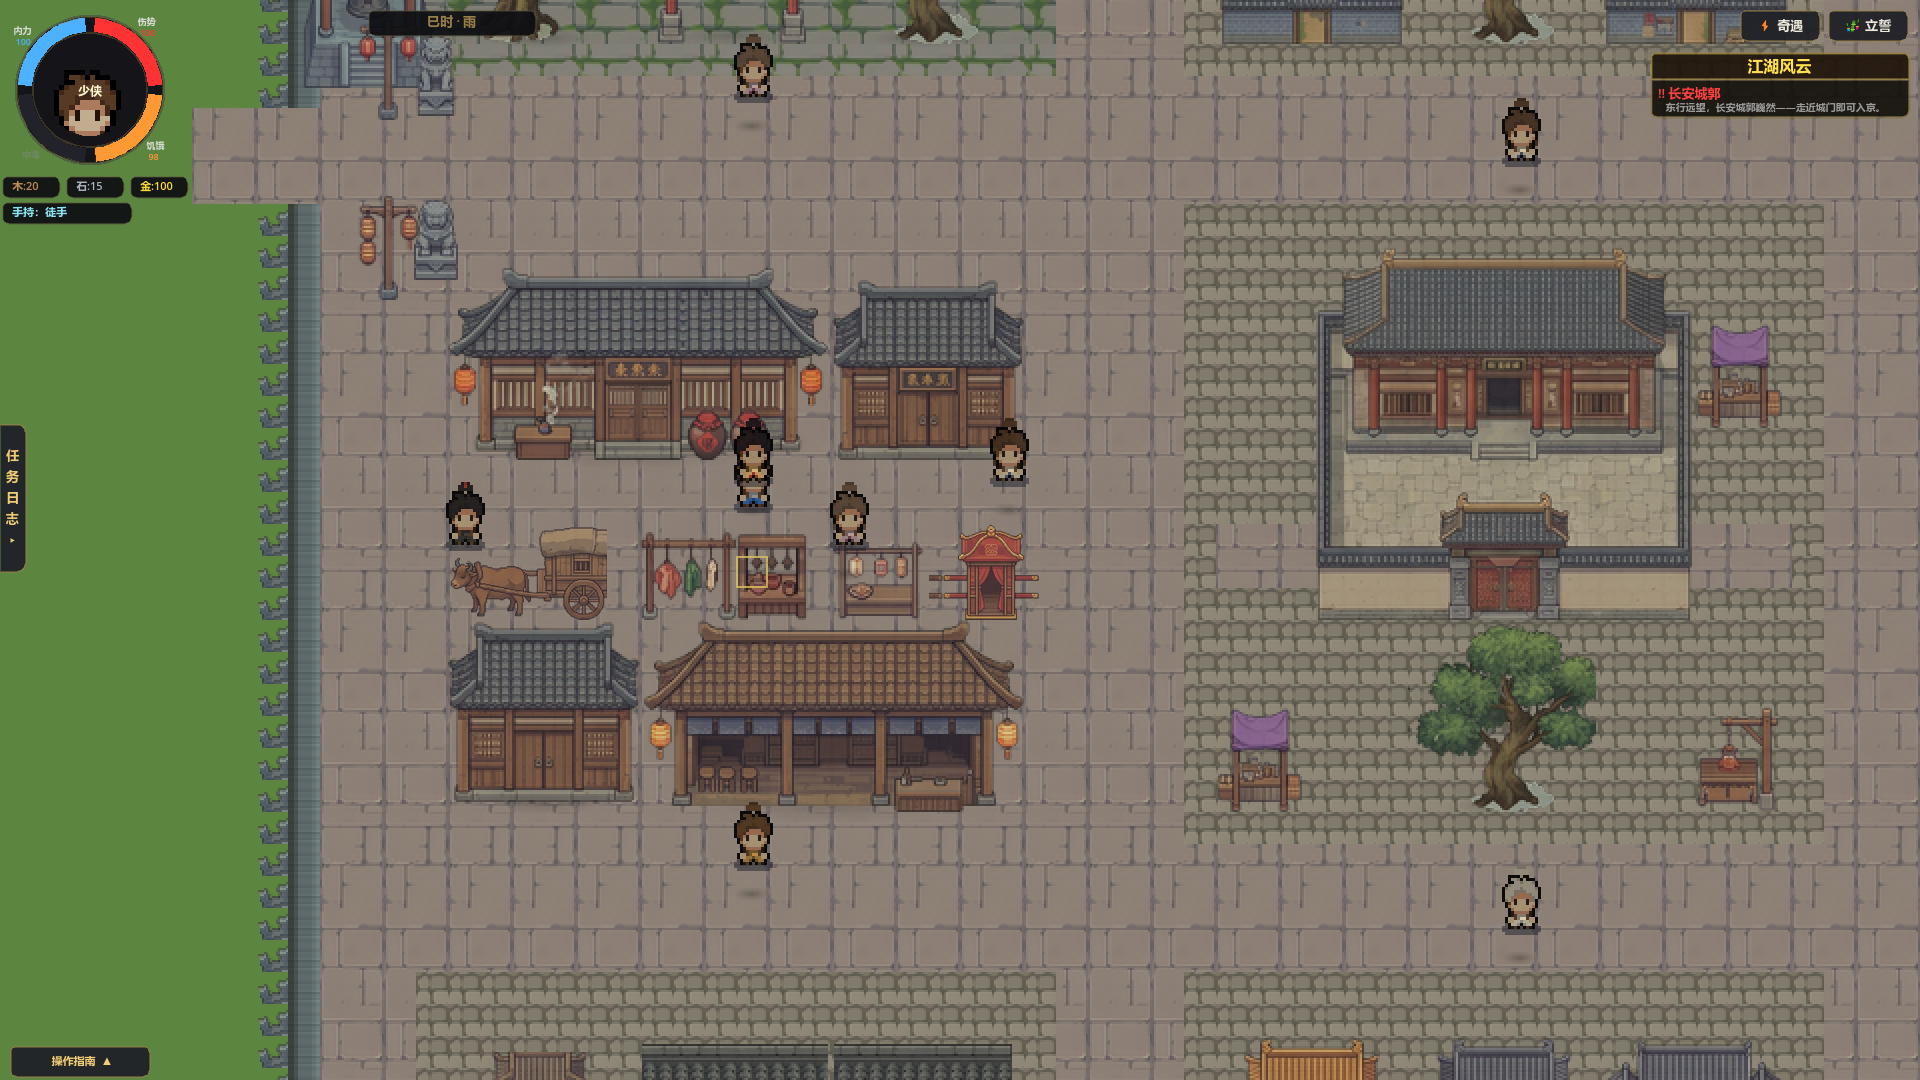
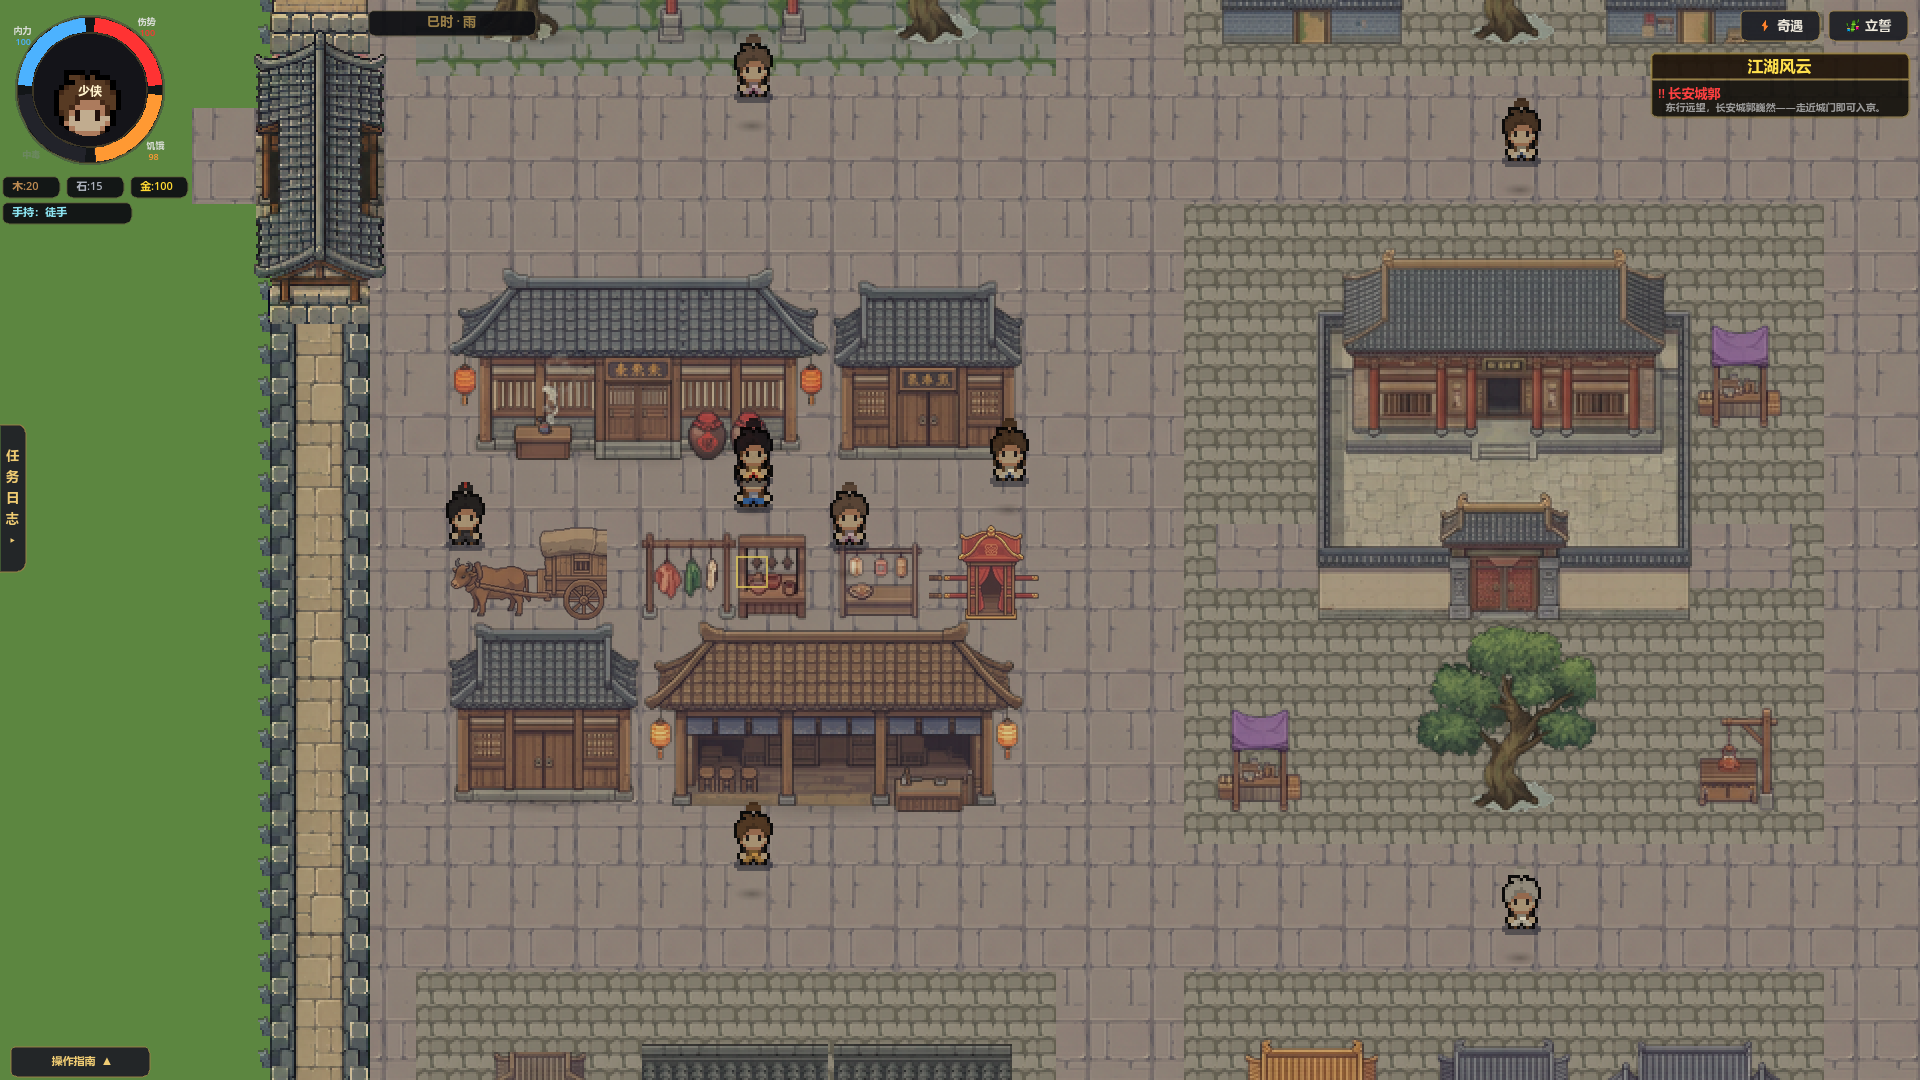
feat: 用 Image 2.0 补齐长安东西门墙
生成并接入原生纵向门桥与两款竖向外郭墙，保留可重建源图、manifest 与运行时探针。

Changed region(s): [[0.125, 0.0, 0.25, 1.0]]

diff --git a/tools/import_sckr_changan.py b/tools/import_sckr_changan.py
@@ -19,6 +19,8 @@ ROOT = os.path.dirname(os.path.dirname(os.path.abspath(__file__)))
 SRC = os.path.join(ROOT, "downloaded_assets", "comshadow_bundle")
 OUT_PROPS = os.path.join(ROOT, "sprites", "changan_props_sckr")
 OUT_TILES = os.path.join(ROOT, "sprites", "tiles_changan_sckr")
+AI_SRC = os.path.join(ROOT, "art_sources", "imagegen", "changan_v2")
+OUT_AI = os.path.join(ROOT, "sprites", "changan_ai")
 CONTACT = os.path.join(ROOT, "docs", "shots", "pack_jingcheng", "slice_contact.png")
 
 JC = "jingcheng/tile-B-01.png"
@@ -257,6 +259,14 @@ PROPS = [
     ("mat_cushion",      WX3, (384, 576, 480, 672)),   # 蒲团垫
 ]
 
+# Image 2.0 生成补件：源图永久保留，导入时统一抠真 Alpha，并以整数比缩为 16px 模数。
+# 字段：(语义名, 源图, 固定源窗, 透明画布尺寸, 输出尺寸)。运行时只引用语义名，不临时裁窗。
+AI_PROPS = [
+    ("side_gate_bridge_ai", "side_gate_bridge_magenta.png", (411, 340, 843, 844), (432, 504), (144, 168)),
+    ("side_wall_run_ai_a", "side_wall_run_magenta.png", (384, 480, 640, 736), (256, 256), (64, 64)),
+    ("side_wall_run_ai_b", "side_wall_run_magenta.png", (384, 736, 640, 992), (256, 256), (64, 64)),
+]
+
 # ---- tile 清单：16×16 整窗（TileMap 图集源，不修边）----
 TILES = [
     # 街巷铺装（终案：街=夯土暖色、御道/宫市=石板、青灰砖=墙——三级语义清晰，修"街砖像城墙"）
@@ -415,10 +425,53 @@ def keep_largest_component(im):
                 px[xx, yy] = (0, 0, 0, 0)
     return im
 
+def key_magenta_bg(im):
+    """Image 2.0 纯洋红底抠图；色键只吃高红高蓝低绿像素，避免误伤灰瓦/木梁。"""
+    im = im.convert("RGBA")
+    px = im.load()
+    for yy in range(im.height):
+        for xx in range(im.width):
+            r, g, b, _ = px[xx, yy]
+            # 洋红底及其与灰瓦/墙砖混出的暗紫边：R/B 同时高于 G，且 R/B 彼此接近。
+            # 棕木的 B 很低、青瓦的 R≈G，不会命中。
+            if abs(r - b) < 80 and min(r, b) - g > 18:
+                px[xx, yy] = (0, 0, 0, 0)
+    # 清掉紧邻透明区的洋红混色边，不动资产内部同色（本套件本身无紫/洋红材质）。
+    for _ in range(2):
+        halo = []
+        for yy in range(im.height):
+            for xx in range(im.width):
+                r, g, b, a = px[xx, yy]
+                if a == 0 or not (r > 120 and b > 120 and min(r, b) - g > 35):
+                    continue
+                if any(0 <= nx < im.width and 0 <= ny < im.height and px[nx, ny][3] == 0
+                       for nx, ny in ((xx + 1, yy), (xx - 1, yy), (xx, yy + 1), (xx, yy - 1))):
+                    halo.append((xx, yy))
+        for xx, yy in halo:
+            px[xx, yy] = (0, 0, 0, 0)
+    # 保持原始画布坐标，后续 AI_PROPS.source_box 才是稳定、可审计的切窗契约。
+    return keep_largest_component(im)
+
+def fit_transparent(im, size):
+    """把已抠资产居中补到固定透明画布，保证后续严格整数倍缩放。"""
+    assert im.width <= size[0] and im.height <= size[1], (im.size, size)
+    out = Image.new("RGBA", size, (0, 0, 0, 0))
+    out.paste(im, ((size[0] - im.width) // 2, (size[1] - im.height) // 2), im)
+    return out
+
+def cleanup_side_gate_bridge(im):
+    """移除模型在门洞左右误补的横墙臂，只保留纵墙与南北向屋脊门桥。"""
+    px = im.load()
+    for yy in range(70, 121):
+        for xx in list(range(0, 40)) + list(range(104, im.width)):
+            px[xx, yy] = (0, 0, 0, 0)
+    return im
+
 def main():
     only = set(sys.argv[1:])
     os.makedirs(OUT_PROPS, exist_ok=True)
     os.makedirs(OUT_TILES, exist_ok=True)
+    os.makedirs(OUT_AI, exist_ok=True)
     sheets = {}
     def sheet(rel):
         if rel not in sheets:
@@ -433,6 +486,19 @@ def main():
             im = key_water_bg(im)
         im.save(os.path.join(OUT_PROPS, name + ".png"))
         made.append((name, im, "prop"))
+    for name, rel, source_box, canvas_size, output_size in AI_PROPS:
+        if only and name not in only:
+            continue
+        im = Image.open(os.path.join(AI_SRC, rel)).convert("RGBA")
+        im = trim_alpha(key_magenta_bg(im).crop(source_box), pad=0)
+        im = fit_transparent(im, canvas_size)
+        assert canvas_size[0] % output_size[0] == 0 and canvas_size[1] % output_size[1] == 0
+        assert canvas_size[0] // output_size[0] == canvas_size[1] // output_size[1]
+        im = im.resize(output_size, Image.Resampling.NEAREST)
+        if name == "side_gate_bridge_ai":
+            im = cleanup_side_gate_bridge(im)
+        im.save(os.path.join(OUT_AI, name + ".png"))
+        made.append((name, im, "imagegen_prop"))
     # 第四轮：整数旋转派生件（90° 旋转像素无损，合规；记录源名+方向，manifest 同步登记）
     # bridge_arch_stone_v = deck 版顺时针 90°（96×58→58×96）：桥长轴转南北=进城过河方向
     # gate_tower_mid_v_e/_w（2026-09-08 重切落地）= 门楼逆/顺 90°（100×94→94×100）：
@@ -664,6 +730,12 @@ def main():
         for name, rel, box in PROPS:
             assets.append({"name": name, "kind": "prop", "category": cat_of(name),
                            "sheet": rel, "box": list(box)})
+        for name, rel, source_box, _canvas_size, output_size in AI_PROPS:
+            assets.append({"name": name, "kind": "prop", "category": "building",
+                           "sheet": "art_sources/imagegen/changan_v2/" + rel,
+                           "box": [0, 0, output_size[0], output_size[1]],
+                           "source_box": list(source_box),
+                           "source_kind": "imagegen"})
         for name, rel, box in TILES:
             assets.append({"name": name, "kind": "tile", "category": cat_of(name),
                            "sheet": rel, "box": list(box)})
@@ -679,7 +751,7 @@ def main():
         out_m = {
             "grid": {"texture_px": 16, "kit_block_px": 48},
             "source_root": "downloaded_assets/comshadow_bundle/",
-            "note": "SCKR 中式包工程化解析清单（范式v3）。派生PNG已gitignore，克隆后重跑本脚本再生。",
+            "note": "SCKR 中式包 + Image 2.0 补件工程化解析清单（范式v3）。SCKR派生PNG已gitignore；AI补件由仓库内源图重建。",
             "assets": assets,
         }
         manifest_path = os.path.join(ROOT, "data", "sckr_manifest.json")

diff --git a/tools/run_changan_v2_shots.py b/tools/run_changan_v2_shots.py
@@ -39,7 +39,7 @@ def main():
         text = f.read()
     print(text[-1500:])
     for line in text.splitlines():
-        if "[ChangAnV2-Shots]" in line:
+        if "[ChangAnV2-Shots]" in line and ("[PASS]" in line or "[FAIL]" in line):
             sys.exit(0 if "[PASS]" in line else 1)
     sys.exit(1)
 

diff --git a/AI_COLLABORATION.md b/AI_COLLABORATION.md
@@ -409,3 +409,14 @@
 - 另一条线需要知道：`weather_controller.gd` 本轮已释放；工作树中的玩法 UID、`tools/godot_path.txt` 和 Tiled TMX 均未触碰、不会纳入提交。
 - 下一步：继续长安街区空间层次；只有晴天基准仍显暗的个别大面积地坪/墙体才做选择性中间调调整，不全包换色。
 - Git commit：随当前视觉提交落库。
+
+### 2026-09-12 20:32｜视觉世界线｜Image 2.0 东西门桥与竖向外郭墙
+
+- 状态：首批 P0 缺件完成；东西侧外郭墙与门桥已从开放检查点升级为原生方向正式素材，台地/四向台阶等后续缺件仍待分批生成。
+- 改动文件：Image 2.0 两张生成源、三张透明像素派生件、`tools/import_sckr_changan.py`、`data/sckr_manifest.json`、`scripts/changan_v2_materials.gd`、结构/E2E/截图探针与受影响样张。
+- 完成内容：新增原生南北向墙顶步道 A/B 与纵向屋脊门桥；东西道路保留穿桥通道。源图→色键 Alpha→固定源窗→整数缩放→manifest→运行时语义加载全链可重建；方向错误候选不入库。
+- 稳定接口变化：无破坏性变化；四门 side、`gate_info`、Portals、街区/道路拓扑和共享热点均未修改。新增节点 meta `side_gate_bridge_ai`、`side_wall_run_ai_{a,b}` 只用于视觉探针。
+- 验证命令与结果：结构探针 PASS（339材质、门桥2、竖墙≥52、BFS=0）；窗口样张 14/14 PASS；主场景 E2E 全 PASS；开放世界 94/94 PASS；验证日志零引擎错误/泄漏，`project.godot` 字节哈希不变。
+- 另一条线需要知道：未修改玩法文件、TMX 或 `tools/godot_path.txt`；以上文件均不会进入本次视觉提交。
+- 下一步：沿同一 Image 2.0 管线补台地崖墙/四向台阶、院墙转角、建筑侧背面模块，每批独立目检与实机验收。
+- Git commit：随当前视觉提交落库。

diff --git a/art_sources/imagegen/changan_v2/README.md b/art_sources/imagegen/changan_v2/README.md
@@ -1,0 +1,12 @@
+# 长安 v2 Image 2.0 补件源
+
+本目录保留可重切的生成源图；运行时不直接加载这些大图，而由
+`tools/import_sckr_changan.py` 按 `AI_PROPS` 固定源窗生成
+`sprites/changan_ai/` 下的透明像素件，并登记到 `data/sckr_manifest.json`。
+
+## 生产提示词摘要
+
+- `side_gate_bridge_magenta.png`：16-bit top-down pixel art，唐代灰瓦木构；单体南北纵向屋脊门桥，连接上下竖墙，东西道路从桥下贯通；严格俯视、正交、无人物、无文字、无阴影、纯洋红背景，禁止正面门楼和十字墙。
+- `side_wall_run_magenta.png`：16-bit top-down pixel art，单条南北纵向外郭城墙墙顶步道；左右青灰垛墙、中间暖灰步道，严格俯视、正交、无门、无建筑、无文字、无阴影、纯洋红背景，禁止正面墙立面。
+
+正式派生件只允许整数倍 `NEAREST` 缩放；东西侧可水平镜像，但禁止把正面墙或正面门楼旋转成侧向素材。
